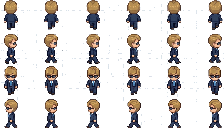
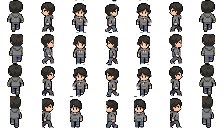
feat: replace character sprites with 2 new source sheets, remove C-E
Processed two new source character images (employeeA: dark-haired male,
employeeB: blonde female) from high-res RGB originals into 224x128 RGBA
sprite sheets (7x4 grid, 32x32 frames) with transparent backgrounds.

- Background removed via scipy connected-component flood-fill from edges
- UP direction for employeeA generated from mirrored DOWN frames (gray
  clothing was indistinguishable from gray background in source)
- Frames padded from 4/5 source frames to 7 via mirror-cycle
- NEAREST neighbor resampling preserves pixel art crispness
- Deleted char_employeeC/D/E.png (no longer used)
- Updated CHAR_COUNT 6->2, PALETTE_TO_SHEET to [A,B], charKeys to [A,B]

diff --git a/webview-ui/src/office/sprites/characterSheetRenderer.ts b/webview-ui/src/office/sprites/characterSheetRenderer.ts
@@ -24,8 +24,8 @@ const DIRECTION_TO_ROW: Record<Direction, number> = {
   [Direction.LEFT]: 3,
 };
 
-/** Map palette index (0-5) to character sheet key (A-E). */
-const PALETTE_TO_SHEET: string[] = ['A', 'B', 'C', 'D', 'E', 'A'];
+/** Map palette index (0-1) to character sheet key (A-B). */
+const PALETTE_TO_SHEET: string[] = ['A', 'B'];
 const _loggedCharacterSheetIssues = new Set<string>();
 
 function logCharacterSheetIssueOnce(key: string, ...args: unknown[]): void {

diff --git a/webview-ui/src/office/sprites/assetLoader.ts b/webview-ui/src/office/sprites/assetLoader.ts
@@ -479,7 +479,7 @@ export function loadAssets(): Promise<void> {
       };
 
       // Load all character sprite sheets in parallel
-      const charKeys = ['A', 'B', 'C', 'D', 'E'];
+      const charKeys = ['A', 'B'];
       const charImages = await Promise.all(
         charKeys.map(key =>
           loadImage(resolveUrl(`assets/characters/char_employee${key}.png`))

diff --git a/src/constants.ts b/src/constants.ts
@@ -24,7 +24,7 @@ export const CHARACTER_DIRECTIONS = ['down', 'up', 'right'] as const;
 export const CHAR_FRAME_W = 16;
 export const CHAR_FRAME_H = 32;
 export const CHAR_FRAMES_PER_ROW = 7;
-export const CHAR_COUNT = 6;
+export const CHAR_COUNT = 2;
 
 // ─── Custom Asset Sprites (4-direction character sheets) ────────────
 /**
